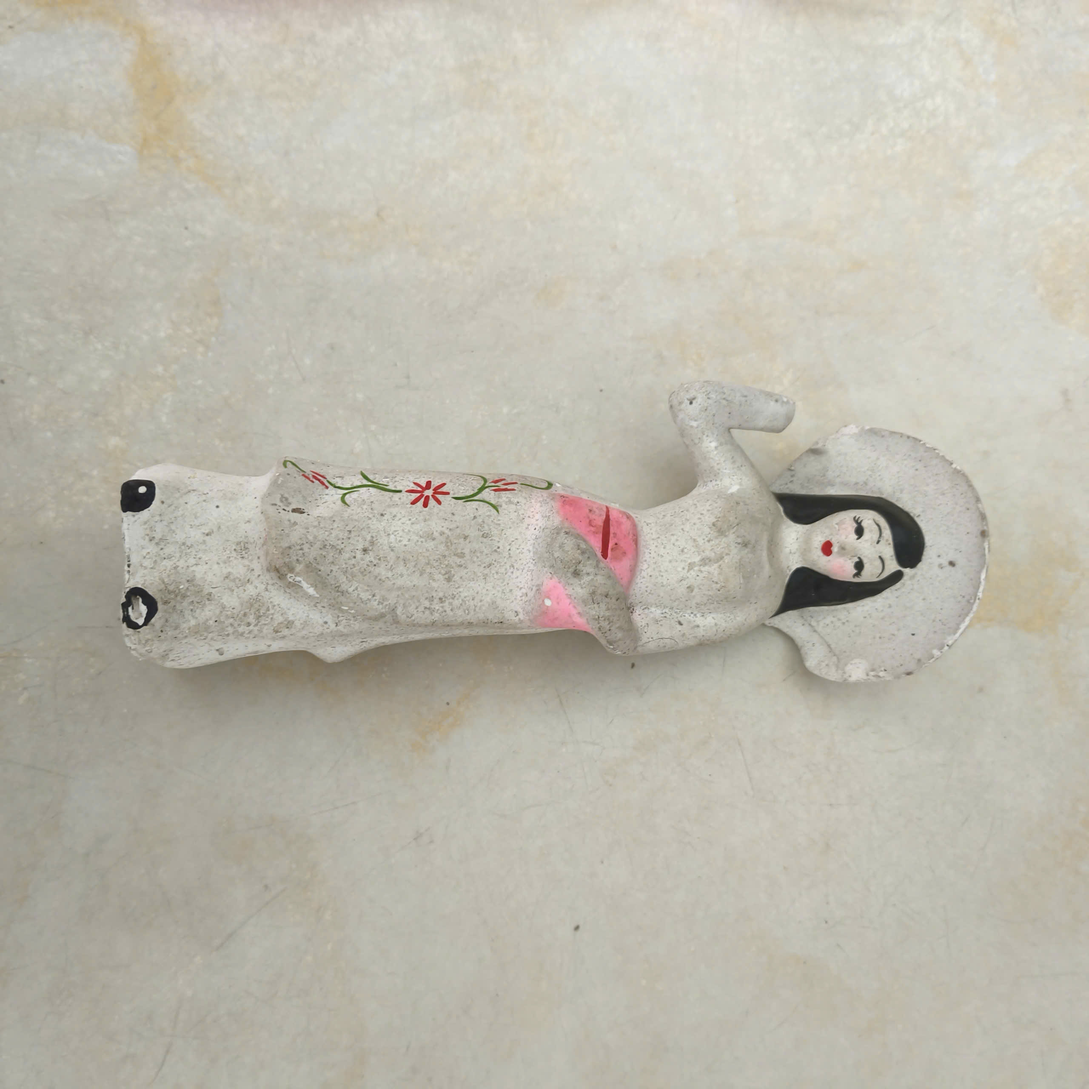
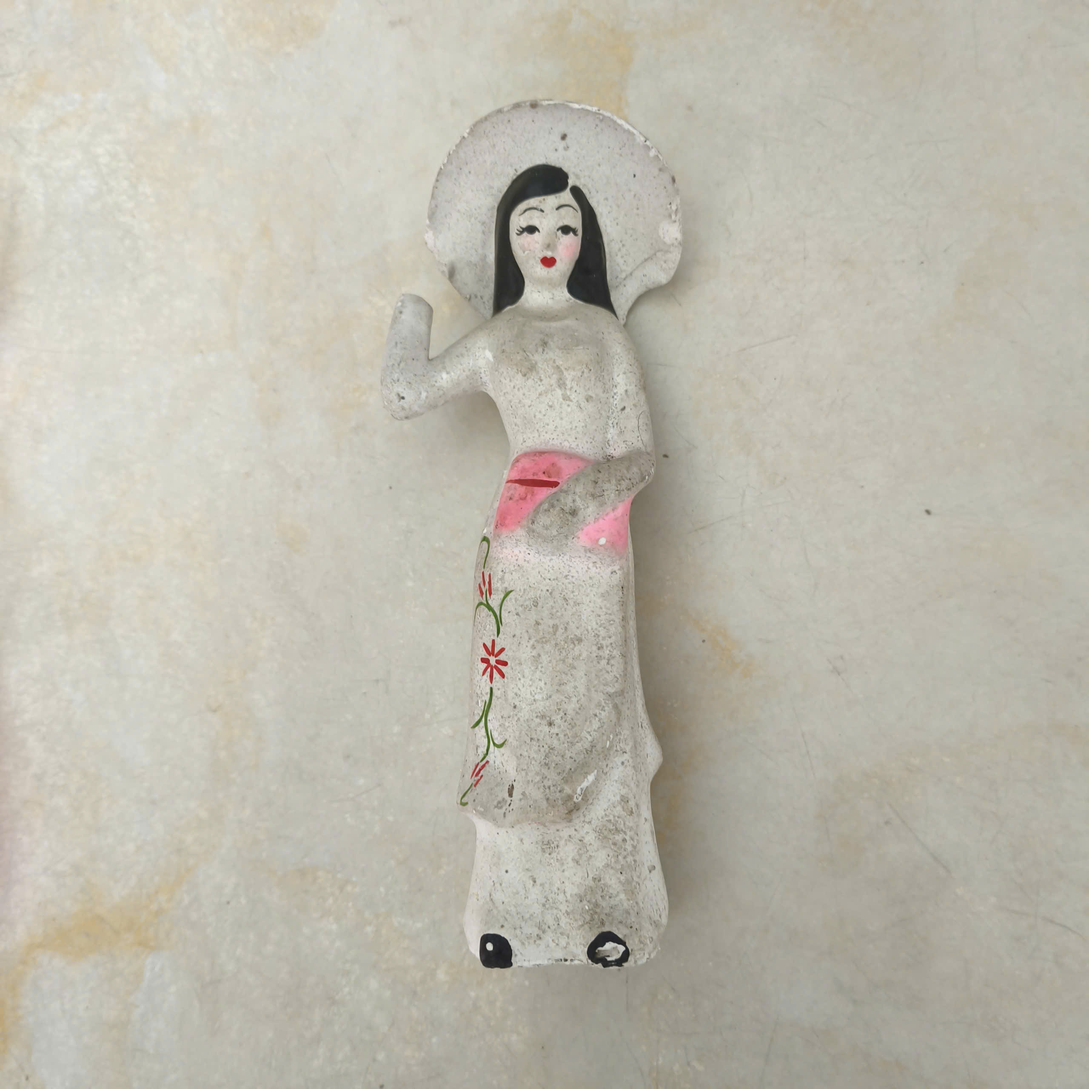
More Photos and rotation fixed

diff --git a/app.js b/app.js
@@ -147,136 +147,150 @@ const LEGACY_ITEMS = [
 const DEFAULT_ITEMS = [
   {
     "id": "tt1", "category": "education", "image": "./photos/tt1.jpg",
-    "nameVi": "Tạp Chí Văn Học và Tuổi Trẻ – Tháng 2/2002", "nameEn": "Literature and Youth Magazine – February 2002",
-    "shortVi": "Số 2 (68) của đặc san Văn học và Tuổi trẻ, xuất bản tháng 2 năm 2002.", "shortEn": "Issue 2 (68) of Literature and Youth, published in February 2002.",
-    "storyVi": "Trang bìa ghi lại một ấn phẩm văn học dành cho tuổi trẻ đầu những năm 2000. Những cuốn đặc san như thế có thể đưa người đọc trở lại không khí đọc sách và học văn của một thời.", "storyEn": "The cover preserves a literary publication for young readers from the early 2000s. Issues like this evoke the reading and literature lessons of an earlier time.",
+    "nameVi": "Trang Văn Xưa, Mùa Học Trò Còn Mãi", "nameEn": "Old Pages, School Days That Never Fade",
+    "shortVi": "Một trang văn mở lối về những giờ đọc say mê dưới mái trường Hoàng Văn Thụ.", "shortEn": "A literary page leads us back to spellbound reading beneath Hoang Van Thu's school roof.",
+    "storyVi": "Số báo năm 2002 đưa ta về những giờ văn, nơi một câu thơ có thể theo học trò suốt con đường tan lớp. Bao thế hệ đã chuyền nhau niềm vui đọc và lời thương mến dành cho mái trường. Từ trang giấy ấy, ta nhớ giấy được kết thành từ những sợi cellulose mong manh.", "storyEn": "This 2002 issue returns us to literature lessons, where a poem could follow students all the way home. Generations shared the joy of reading and affection for their school. Its pages also remind us that paper is woven from delicate cellulose fibres.",
     "stemVi": "Giấy gồm mạng sợi cellulose; ánh sáng, độ ẩm và nhiệt có thể thúc đẩy quá trình lão hóa. Bảo quản nơi khô, tránh ánh sáng mạnh giúp giảm hư hại.", "stemEn": "Paper consists of a network of cellulose fibres; light, humidity and heat can accelerate ageing. Dry storage away from strong light helps reduce damage."
   },
   {
     "id": "tt2", "category": "nature", "image": "./photos/tt2.jpg",
     "nameVi": "Hoa Phượng Đỏ Ép Hình Bướm", "nameEn": "Pressed Royal Poinciana Flower Butterfly",
-    "shortVi": "Hoa phượng đỏ ép khô, được tạo hình bướm trên nền giấy sáng.", "shortEn": "A dried, pressed royal poinciana flower presented as a butterfly on a light backing.",
-    "storyVi": "Hoa phượng đỏ gắn với mùa hè và những ngày chia tay tuổi học trò. Bông hoa được ép khô và tạo hình bướm như một kỷ vật nhỏ lưu giữ ký ức sân trường.", "storyEn": "The red royal poinciana is associated with summer and schoolday farewells in Vietnam. Pressed and presented as a butterfly, the flower becomes a small keepsake of school memories.",
+    "shortVi": "Cánh phượng giữ hộ tiếng ve, lời hẹn và mùa chia tay sân trường.", "shortEn": "A flamboyant petal keeps the cicadas, farewells, and promises of schoolyard summer.",
+    "storyVi": "Mỗi mùa phượng nở, sân trường lại đỏ lên như trang lịch báo hè đã gần. Có người ép một cánh hoa vào trang vở để giữ lại buổi chia tay và lời hẹn ngày gặp lại. Cánh hoa khô vẫn kể chuyện mùa nắng, khi nước dần rời khỏi mô thực vật.", "storyEn": "Whenever the flamboyant trees bloom, the schoolyard turns red with the promise of summer. Someone pressed a petal into a notebook to remember a farewell and the promise to meet again. The dried flower still tells of sunlight, as water slowly leaves its tissues.",
     "stemVi": "Phượng đỏ (Delonix regia) là cây có hoa thuộc họ Đậu. Khi ép và làm khô, nước rời khỏi mô hoa, giúp hạn chế nấm mốc; sắc hoa vẫn có thể phai hoặc chuyển nâu theo thời gian và dưới ánh sáng.", "stemEn": "Royal poinciana (Delonix regia) is a flowering tree in the pea family. Pressing and drying remove water from flower tissues, helping limit mould; the colour can still fade or turn brown over time and with light exposure."
   },
   {
     "id": "tt3", "category": "education", "image": "./photos/tt3.jpg",
-    "nameVi": "Tạp Chí Văn Học và Tuổi Trẻ – Tháng 3/2002", "nameEn": "Literature and Youth Magazine – March 2002",
-    "shortVi": "Số 3 (69), tháng 3 năm 2002, với bìa hình học sinh áo dài trắng.", "shortEn": "Issue 3 (69), March 2002, with students in white áo dài on the cover.",
-    "storyVi": "Hình ảnh học sinh trên bìa gợi đến những giờ học, tình bạn và thói quen đọc của tuổi trẻ. Số báo là một mảnh tư liệu của văn hóa học đường năm 2002.", "storyEn": "The students on the cover evoke classes, friendships and youthful reading habits. The issue is a small record of school culture in 2002.",
+    "nameVi": "Tháng Ba Trên Trang Báo Tuổi Trẻ", "nameEn": "March Days on the Pages of Youth",
+    "shortVi": "Số báo tháng Ba gợi tà áo trắng, giờ văn và tình bạn đầu đời.", "shortEn": "A March issue recalls white ao dai, literature lessons, and friendships just beginning.",
+    "storyVi": "Tháng Ba năm 2002, những trang báo tìm đường vào cặp sách và câu chuyện giờ ra chơi. Áo trắng, bè bạn và niềm háo hức tuổi trẻ gặp nhau trong một miền nhớ chung của nhiều khóa học trò. Màu in được tạo nên khi những chấm mực nhỏ hòa vào mắt người đọc.", "storyEn": "In March 2002, this magazine found its way into schoolbags and recess conversations. White uniforms, friendship, and youthful anticipation meet in a memory shared by generations of students. Printed colours emerge as tiny ink dots blend in the reader's eye.",
     "stemVi": "Trong in màu, các lớp mực cyan, magenta, vàng và đen thường được chồng lên nhau. Các chấm in nhỏ tạo nên hình ảnh và những sắc độ mà mắt cảm nhận.", "stemEn": "Colour printing commonly layers cyan, magenta, yellow and black inks. Small printed dots combine to produce the image and tones perceived by the eye."
   },
   {
     "id": "tt4", "category": "education", "image": "./photos/tt4.jpg",
-    "nameVi": "Tạp Chí Văn Học và Tuổi Trẻ – Tháng 10/2002", "nameEn": "Literature and Youth Magazine – October 2002",
-    "shortVi": "Số 10 (76), tháng 10 năm 2002, với tranh minh họa trên bìa.", "shortEn": "Issue 10 (76), October 2002, with an illustrated cover.",
-    "storyVi": "Một bìa báo khác trong bộ đặc san lưu lại nét minh họa và thiết kế của đầu thập niên 2000. Những trang giấy cũ mở ra cơ hội khám phá cách văn học từng đến với học sinh.", "storyEn": "Another cover in the series preserves the illustration and design of the early 2000s. Its old pages invite us to explore how literature reached students.",
+    "nameVi": "Tháng Mười, Một Mùa Văn Chương", "nameEn": "October, a Season of Stories",
+    "shortVi": "Trang báo tháng Mười nhắc những buổi đọc văn và ước mơ tuổi học trò.", "shortEn": "October's pages recall literature lessons and the dreams of school days.",
+    "storyVi": "Số tháng Mười đưa ta về những chiều tan học, khi câu chuyện trong trang sách còn theo chân về tận ngõ nhà. Qua bao năm, một ấn phẩm nhỏ vẫn nối người đọc hôm nay với những lớp học ngày trước. Mực và giấy tiếp tục đổi thay dưới ánh sáng, không khí và thời gian.", "storyEn": "The October issue recalls afternoons when a story from class followed students all the way home. Years later, a small publication still connects today's readers with classrooms long past. Ink and paper keep changing under light, air, and time.",
     "stemVi": "Mực in và sợi giấy thay đổi theo thời gian do ánh sáng, oxy và độ ẩm. Lưu trữ ổn định, tránh ánh nắng trực tiếp, giúp làm chậm các quá trình này.", "stemEn": "Printing inks and paper fibres change over time through exposure to light, oxygen and moisture. Stable storage away from direct sun slows these processes."
   },
   {
     "id": "tt5", "category": "memory", "image": "./photos/tt5.jpg",
-    "nameVi": "Giấy Viết Thư Hình Mèo và Chó", "nameEn": "Cat-and-Dog Decorative Letter Paper",
-    "shortVi": "Tờ giấy viết thư có viền xanh và hình thú cưng.", "shortEn": "Letter paper with a green border and pet illustrations.",
-    "storyVi": "Tờ giấy trang trí gợi lại thời học trò chọn giấy thật đẹp trước khi viết một lời nhắn. Khoảng trắng ở giữa dành cho những câu chuyện và tình cảm của người viết.", "storyEn": "This decorative sheet recalls choosing special stationery before writing a note. The blank centre leaves room for the writer's stories and feelings.",
+    "nameVi": "Lá Thư Nhỏ Gửi Bạn Bàn Bên", "nameEn": "A Little Letter for the Desk-Mate",
+    "shortVi": "Một tờ thư chờ nét mực tím và lời hỏi thăm người bạn thân thương.", "shortEn": "A letter awaits purple ink and a kind greeting for a cherished friend.",
+    "storyVi": "Có những lời chỉ dám viết lên giấy rồi khẽ đẩy qua mặt bàn gỗ. Một câu hỏi thăm vụng về cũng đủ làm giờ học dài hóa dịu dàng, và tình bạn theo người ta qua nhiều mùa phượng. Giấy giữ lời nhắn bằng mạng sợi cellulose đan vào nhau.", "storyEn": "Some words could only be written down and quietly passed across a wooden desk. A shy greeting made a long lesson gentler, and that friendship lasted through many flamboyant summers. Paper holds the message in a network of interwoven cellulose fibres.",
     "stemVi": "Giấy được tạo từ các sợi cellulose liên kết thành mạng. Thiết kế viền giúp phân chia không gian thị giác giữa hình trang trí và phần dành để viết.", "stemEn": "Paper is made from cellulose fibres bonded into a network. The border visually separates the decoration from the space intended for writing."
   },
   {
     "id": "tt6", "category": "memory", "image": "./photos/tt6.jpg",
-    "nameVi": "Giấy Viết Thư Hoa và Thú Bông", "nameEn": "Floral and Teddy Bear Letter Paper",
-    "shortVi": "Giấy viết thư kẻ dòng, trang trí hoa và hình thú bông.", "shortEn": "Lined writing paper decorated with flowers and teddy bears.",
-    "storyVi": "Những đường kẻ và hình trang trí đầy màu sắc gợi những lá thư viết tay gửi bạn bè. Một tờ giấy nhỏ có thể là nơi lưu giữ những lời hỏi thăm gần gũi.", "storyEn": "Colourful illustrations and ruled lines recall handwritten letters to friends. A small sheet can hold a thoughtful message across time.",
+    "nameVi": "Dòng Kẻ Chở Bao Điều Chưa Nói", "nameEn": "Ruled Lines for Words Unspoken",
+    "shortVi": "Nét chữ học trò gửi thương nhớ qua những dòng kẻ dịu dàng.", "shortEn": "A student's handwriting carries affection along these gentle lines.",
+    "storyVi": "Sau giờ học, từng dòng chữ nhỏ có thể kể chuyện bài kiểm tra, nỗi nhớ hay một niềm vui vừa đến. Lá thư chuyền tay làm chiếc bàn học thành nơi cất giữ những điều khó nói thành lời. Những đường kẻ giúp chữ viết thẳng hàng, còn sắc màu đến từ ánh sáng phản chiếu trên giấy.", "storyEn": "After class, a few handwritten lines could hold exam worries, longing, or a fresh happiness. A passed note turned the desk into a keeper of feelings too shy to speak. Ruled lines guide the writing, while reflected light gives the printed colours their life.",
     "stemVi": "Các đường kẻ song song tạo chuẩn căn hàng cho chữ viết. Hoa văn nhiều màu được tạo bằng mực in; sắc màu nhìn thấy phụ thuộc vào ánh sáng phản xạ từ bề mặt giấy.", "stemEn": "Parallel ruled lines provide a guide for handwriting. Printed colours are perceived through the light reflected from the paper's surface."
   },
   {
     "id": "tt7", "category": "education", "image": "./photos/tt7.jpg",
-    "nameVi": "Thiệp Chúc Mừng Ngày Nhà Giáo Việt Nam", "nameEn": "Vietnamese Teachers' Day Greeting Card",
-    "shortVi": "Thiệp gấp có hình thầy cô, học sinh và lời chúc Ngày Nhà giáo.", "shortEn": "A folded card featuring teachers, students and a Teachers' Day greeting.",
-    "storyVi": "Tấm thiệp gợi dịp học sinh bày tỏ lòng biết ơn với thầy cô nhân Ngày Nhà giáo Việt Nam. Nếp gấp và phần bên trong chừa chỗ cho những lời nhắn riêng.", "storyEn": "The card evokes the occasion when students express gratitude to teachers on Vietnamese Teachers' Day. Its folded form leaves space inside for a personal note.",
+    "nameVi": "Lời Tri Ân Gửi Người Lái Đò", "nameEn": "A Note of Thanks to Our Teachers",
+    "shortVi": "Một lời biết ơn nhỏ dành cho những người thắp sáng bao mùa học.", "shortEn": "A small expression of gratitude to those who illuminate generations of learning.",
+    "storyVi": "Ngày Nhà giáo, học trò gom bao điều muốn nói vào một lời chúc còn ngập ngừng. Thầy cô đón nhận tấm lòng ấy rồi lại lặng lẽ trở về với bài giảng, như đã qua bao thế hệ dưới mái trường này. Nếp gấp biến tấm bìa phẳng thành nơi cất giữ lời tri ân.", "storyEn": "On Teachers' Day, students gather their feelings into a greeting, sometimes still shyly. Their teachers receive it and quietly return to their lessons, as generations have done beneath this school's roof. A crease turns flat card into a keepsake for gratitude.",
     "stemVi": "Nếp gấp biến một tấm bìa phẳng thành cấu trúc mở–đóng. Sợi giấy bị biến dạng tại đường gấp, vì vậy tạo rãnh trước khi gấp có thể giúp hạn chế rách.", "stemEn": "A fold turns a flat piece of card into an opening structure. Paper fibres deform at the crease, so scoring before folding can help prevent tearing."
   },
   {
     "id": "tt8", "category": "memory", "image": "./photos/tt8.jpg",
-    "nameVi": "Giấy Viết Thư Họa Tiết Hoa và Ngôi Sao", "nameEn": "Flower and Star Letter Paper",
-    "shortVi": "Tờ giấy kẻ dòng màu tím nhạt, có hoa và họa tiết ngôi sao.", "shortEn": "Pale purple ruled letter paper with flowers and stars.",
-    "storyVi": "Một mẫu giấy viết thư khác lưu lại gu trang trí đầy màu sắc của thời thư tay. Những dòng kẻ từng chờ đợi một câu chuyện được gửi tới người nhận.", "storyEn": "Another letter-paper design preserves the colourful style of handwritten correspondence. Its lines waited for a story to be sent to someone.",
+    "nameVi": "Ngôi Sao Nhỏ Trên Trang Thư Tím", "nameEn": "A Little Star on a Violet Letter",
+    "shortVi": "Ngôi sao và cánh hoa cùng đợi một lá thư tìm đến người thương.", "shortEn": "A star and flower wait together for a letter to find someone dear.",
+    "storyVi": "Một trang thư đẹp khiến lời nhắn bình thường bỗng trở nên đáng nâng niu. Có lẽ ai đó từng viết vội trước giờ trống, gửi theo một bí mật của tuổi học trò. Mực hấp thụ và phản xạ ánh sáng để sắc màu hiện lên, còn dòng kẻ giữ lời ngay ngắn.", "storyEn": "A lovely sheet could make an ordinary message feel worth treasuring. Perhaps someone hurriedly wrote before the bell, entrusting it with a schoolday secret. Ink absorbs and reflects light to create colour, while the lines keep each word in place.",
     "stemVi": "Khi ánh sáng chiếu lên giấy, mực hấp thụ một phần bước sóng và phản xạ phần còn lại, tạo nên màu sắc quan sát được. Các đường kẻ giúp giữ chữ viết ngay hàng.", "stemEn": "When light falls on the paper, inks absorb some wavelengths and reflect others, producing the colours we see. The lines help keep handwriting aligned."
   },
   {
     "id": "tt9", "category": "design", "image": "./photos/tt9.jpg",
-    "nameVi": "Giá Treo Đồ Hình Cành Cây Màu Xanh", "nameEn": "Green Branch-Shaped Desk Stand",
-    "shortVi": "Giá treo nhỏ có các nhánh và chân đế loe.", "shortEn": "A small branch-shaped stand with a flared base.",
-    "storyVi": "Hình cành cây đưa một nét tự nhiên vào góc bàn học. Các nhánh có thể dùng để treo những vật nhỏ và giúp sắp xếp không gian gọn gàng.", "storyEn": "The branch form brings a touch of nature to a desk. Its branches can hold small objects and help keep a space organised.",
+    "nameVi": "Nhành Xanh Bên Góc Bàn Học", "nameEn": "A Green Bough Beside the School Desk",
+    "shortVi": "Nhành xanh gợi bóng cây sân trường giữa bao mùa học trò qua lại.", "shortEn": "A green bough recalls the schoolyard shade through passing generations of students.",
+    "storyVi": "Giữa trang vở và chồng sách, một nhành xanh nhắc học trò ngẩng lên nhớ bóng cây ngoài sân. Nơi góc bàn thân thuộc, những mùa phượng nối tiếp nhau mà chuyện trò chẳng dứt. Giá đứng vững khi trọng tâm còn nằm trên chân đế, một bài học nhỏ về cân bằng.", "storyEn": "Among notebooks and textbooks, a green bough reminds students to look up and remember the courtyard trees. At the familiar desk, flamboyant seasons pass while conversations carry on. The stand stays upright when its centre of mass remains over its base: a small lesson in balance.",
     "stemVi": "Chân đế rộng giúp giá ổn định hơn khi trọng tâm nằm trên vùng tiếp xúc. Vật treo lệch tạo mô-men lực và có thể khiến giá bị lật nếu quá nặng.", "stemEn": "A wider base improves stability when the centre of mass remains above the support area. An uneven hanging load creates torque and can tip the stand if too heavy."
   },
   {
     "id": "tt10", "category": "art", "image": "./photos/tt10.jpg",
-    "nameVi": "Tượng Trang Trí Người Mặc Áo Dài và Nón Lá", "nameEn": "Decorative Figure in Áo Dài and Conical Hat",
-    "shortVi": "Tượng nhỏ mô tả một người mặc áo dài trắng và đội nón lá.", "shortEn": "A small figure depicting a person in a white áo dài and conical hat.",
-    "storyVi": "Tượng tái hiện trang phục và hình ảnh quen thuộc trong văn hóa Việt Nam. Những nét vẽ nhỏ trên bề mặt tạo nên vẻ riêng cho vật trang trí.", "storyEn": "The figure depicts familiar elements of Vietnamese dress and culture. Small painted details give this decorative object its individual character.",
+    "nameVi": "Dáng Áo Dài Trong Miền Nhớ", "nameEn": "The Ao Dai in Our Schoolday Memories",
+    "shortVi": "Dáng áo dài nhắc sân trường thân thuộc và những người cô tận tụy.", "shortEn": "The ao dai recalls a beloved schoolyard and the devotion of its teachers.",
+    "storyVi": "Dáng áo dài đưa ta về buổi chào cờ sớm, khi lời thầy cô mở đầu một ngày mới. Bao người đã đi qua mái trường, mang theo sự tận tụy của những người từng dìu dắt mình. Sắc màu trên hình tượng được tạo nên khi sắc tố hấp thụ và phản xạ ánh sáng.", "storyEn": "The ao dai brings back early assemblies, when a teacher's words began the day. Generations have passed through this school carrying the care of those who guided them. Pigments create the figure's colours by absorbing and reflecting light.",
     "stemVi": "Sắc tố trong lớp sơn hấp thụ và phản xạ ánh sáng để tạo màu. Bề mặt, độ dày và điều kiện lưu trữ đều ảnh hưởng đến độ bền của lớp trang trí.", "stemEn": "Pigments in paint absorb and reflect light to produce colour. The surface, layer thickness and storage conditions all affect the durability of the decoration."
   },
   {
     "id": "tt11", "category": "technology", "image": "./photos/tt11.jpg",
-    "nameVi": "Băng Cát-Xét Maxell UR 90", "nameEn": "Maxell UR 90 Audio Cassette",
-    "shortVi": "Băng cát-xét Maxell UR 90 với hai cuộn băng trong vỏ nhựa.", "shortEn": "A Maxell UR 90 cassette with two reels inside a plastic shell.",
-    "storyVi": "Cuộn băng gợi lại cách nghe và ghi âm trước thời phát nhạc trực tuyến: lắp băng, tua tới bài hát và lắng nghe. Nhãn viết tay cũng có thể giúp nhận diện nội dung từng được lưu trên băng.", "storyEn": "The cassette recalls listening and recording before streaming: inserting a tape, winding to a track and pressing play. A handwritten label could help identify what was recorded.",
+    "nameVi": "Giai Điệu Cũ Trên Cuộn Băng", "nameEn": "Old Melodies on a Cassette",
+    "shortVi": "Một giai điệu giờ ra chơi quay về theo tiếng băng từ thân quen.", "shortEn": "A familiar tape brings back the melodies that once filled recess.",
+    "storyVi": "Ngày trước, một bài hát được tua đi tua lại thành nhạc nền cho cả tuổi học trò. Giai điệu len qua giờ ra chơi, theo bạn bè trên đường về và ở lại trong ký ức nhiều năm. Hạt từ trên băng lưu âm thanh bằng những biến đổi từ hóa rất nhỏ.", "storyEn": "Once, a favourite song was rewound until it became the soundtrack of school days. Its melody slipped into recess, accompanied friends on the way home, and stayed for years. Tiny changes in magnetisation let particles on the tape preserve sound.",
     "stemVi": "Băng từ chứa các hạt vật liệu từ trên lớp phủ. Đầu ghi thay đổi sự từ hóa theo tín hiệu âm thanh; khi phát, đầu đọc chuyển biến thiên từ trường thành tín hiệu điện.", "stemEn": "Magnetic tape has magnetic particles in its coating. A recording head changes their magnetisation with the audio signal; during playback, a head converts changing magnetic flux into an electrical signal."
   },
   {
     "id": "tt12", "category": "memory", "image": "./photos/tt12.jpg",
-    "nameVi": "Ống Đựng Trang Trí Chữ “Love”", "nameEn": "Decorative “Love” Container",
-    "shortVi": "Ống đựng hình trụ có hình đôi bạn và chữ Love trên trái tim.", "shortEn": "A cylindrical container decorated with two figures and a heart reading Love.",
-    "storyVi": "Ống đựng nhỏ với hình đôi bạn gợi một món quà trang trí hoặc vật dụng để bàn. Các chi tiết nổi và chữ trên trái tim tạo điểm nhấn cho kỷ vật.", "storyEn": "The small container, decorated with a pair of figures, suggests a gift or desk accessory. Raised details and lettering on the heart give it a distinctive character.",
+    "nameVi": "Món Quà Nhỏ, Tình Bạn Dài Lâu", "nameEn": "A Small Gift, a Friendship for Years",
+    "shortVi": "Kỷ vật nhỏ nhắc những tình bạn lớn lên cùng năm tháng dưới mái trường.", "shortEn": "A keepsake recalls friendships that grew through the years beneath the school roof.",
+    "storyVi": "Có món quà chẳng cần đắt giá, chỉ cần nhắc ta nhớ người đã ngồi bên cạnh mình. Tình bạn tuổi học trò lớn lên từ những lần sẻ chia, rồi theo mỗi người qua cổng trường. Dáng trụ rỗng tạo chỗ chứa, còn những chi tiết nổi đổi bóng theo ánh sáng.", "storyEn": "Some gifts need no price tag; they only need to recall the friend who sat beside us. Schoolday friendships grew through small acts of sharing and followed each person beyond the school gate. A hollow cylinder holds keepsakes, while raised details shift their shadows with the light.",
     "stemVi": "Hình trụ bao quanh một khoảng rỗng để chứa đồ. Các chi tiết nổi tạo bóng khác nhau theo hướng chiếu sáng, giúp mắt nhận biết hình dạng bề mặt.", "stemEn": "A cylindrical wall encloses a hollow space for holding objects. Raised details cast different shadows as lighting changes, helping the eye perceive surface shape."
   },
   {
     "id": "tt13", "category": "education", "image": "./photos/tt13.jpg",
-    "nameVi": "Bút Kim Loại Trong Hộp Trưng Bày", "nameEn": "Metal Pen in a Display Case",
-    "shortVi": "Một cây bút màu kim loại được đặt trong hộp có nắp trong.", "shortEn": "A metallic-coloured pen displayed in a transparent-lidded case.",
-    "storyVi": "Cây bút được giữ trong hộp, gợi những món quà lưu niệm và công việc viết lách. Hộp giúp người xem nhìn thấy hình dáng cây bút mà không cần trực tiếp cầm vào.", "storyEn": "Kept in its case, the pen recalls commemorative gifts and the work of writing. The case lets visitors see its shape without handling it directly.",
+    "nameVi": "Cây Bút Gửi Lại Bao Trang Vở", "nameEn": "A Pen That Filled So Many Notebooks",
+    "shortVi": "Ngòi bút nhỏ nối bài giảng, trang vở và những ước mơ đầu đời.", "shortEn": "A pen joins lessons, notebooks, and the first dreams of generations.",
+    "storyVi": "Từ nét chữ đầu tiên đến lời chúc cuối năm, cây bút đã chứng kiến học trò trưởng thành từng trang. Có thầy cô kiên nhẫn sửa từng con chữ, gửi theo đó niềm tin vào một ngày mai rộng mở. Vỏ bút cho điểm cầm vững vàng, còn hình dáng được gìn giữ để tiếp tục câu chuyện.", "storyEn": "From a first careful letter to a final-year greeting, this pen witnessed students grow page by page. Teachers patiently shaped each word and sent along their faith in brighter futures. Its body offers a steady grip, while its preserved form carries the story onward.",
     "stemVi": "Vỏ bút tạo kết cấu bảo vệ và điểm cầm. Nắp trong cho ánh sáng truyền qua, đồng thời giúp hạn chế bụi tiếp xúc trực tiếp với vật bên trong.", "stemEn": "The pen body provides a protective structure and a grip. The transparent lid transmits light while helping limit direct dust exposure to the object inside."
   },
   {
     "id": "tt14", "category": "heritage", "image": "./photos/tt14.jpg",
-    "nameVi": "Đĩa Kỷ Niệm 50 Năm Thành Lập Trường (1966 – 2016)", "nameEn": "School 50th Anniversary Commemorative Plate (1966–2016)",
-    "shortVi": "Đĩa kỷ niệm có hình ngôi trường và dòng chữ kỷ niệm 50 năm.", "shortEn": "A commemorative plate showing the school and its 50th-anniversary dates.",
-    "storyVi": "Dòng chữ trên đĩa ghi dấu 50 năm thành lập trường từ 1966 đến 2016. Hình ảnh ngôi trường trên hiện vật đưa người xem trở về một cột mốc trong hành trình của nhiều thế hệ.", "storyEn": "The inscription marks the school's 50th anniversary from 1966 to 2016. Its image of the school takes visitors back to a milestone shared by generations.",
+    "nameVi": "Nửa Thế Kỷ Chung Một Mái Trường", "nameEn": "Half a Century Beneath One School Roof",
+    "shortVi": "Dấu mốc 1966–2016 tri ân bao thế hệ dựng xây Hoàng Văn Thụ.", "shortEn": "The 1966–2016 milestone honours generations who built Hoang Van Thu.",
+    "storyVi": "Từ năm 1966 đến 2016, bao lớp học trò đã gọi nơi đây là mái nhà thứ hai. Mỗi người góp một mùa thanh xuân vào hành trình chung, để hôm nay trường bước sang năm thứ sáu mươi với lòng biết ơn. Đĩa gốm được tạo hình từ khoáng chất rồi nung nóng để bền chắc qua thời gian.", "storyEn": "From 1966 to 2016, generations of students called this place a second home. Each gave a season of youth to a shared journey, and today the school enters its sixtieth year with gratitude. The ceramic plate is shaped from minerals and fired to endure.",
     "stemVi": "Đồ gốm sứ được tạo hình từ nguyên liệu khoáng và nung ở nhiệt độ cao. Lớp men thủy tinh trên bề mặt có thể giúp giảm độ thấm và bảo vệ trang trí.", "stemEn": "Ceramics are shaped from mineral materials and fired at high temperature. A glassy glaze can reduce surface porosity and protect decoration."
   },
   {
     "id": "tt15", "category": "art", "image": "./photos/tt15.jpg",
-    "nameVi": "Vòng Hoa Trang Trí Tím Trắng", "nameEn": "Purple and White Decorative Flower Wreath",
-    "shortVi": "Vòng hoa nhỏ với các bông tím, trắng và dây ruy băng.", "shortEn": "A small wreath of purple and white flowers with ribbon ties.",
-    "storyVi": "Các bông hoa được xếp quanh một vòng, kết hợp dây ruy băng mềm. Vật trang trí gợi không khí của những buổi chụp ảnh và dịp gặp gỡ.", "storyEn": "Flowers are arranged around a ring and paired with soft ribbons. The decoration evokes photographs and special gatherings.",
+    "nameVi": "Vòng Hoa Cho Ngày Hội Ngộ", "nameEn": "A Wreath for the Homecoming",
+    "shortVi": "Sắc hoa tím trắng đón những cuộc gặp lại sau bao mùa xa cách.", "shortEn": "Purple and white flowers welcome friends reuniting after many years apart.",
+    "storyVi": "Ngày hội trường, những người bạn cũ gặp nhau giữa tiếng cười và bao câu chuyện chưa kể. Vòng hoa như lời chào dịu dàng, gom sắc màu của nhiều thế hệ từng chung một sân trường. Khung vòng giữ các phần trang trí thành đường cong, tạo nên một nhịp điệu hài hòa.", "storyEn": "At a school reunion, old friends meet again among laughter and untold stories. The wreath offers a gentle welcome, gathering the colours of generations who shared one schoolyard. Its circular frame holds the decorations along a curve, creating a quiet visual rhythm.",
     "stemVi": "Khung vòng giữ các phần trang trí theo một đường cong. Màu tím và trắng tạo tương phản thị giác, còn dây buộc giúp điều chỉnh cách cố định vòng.", "stemEn": "The ring supports the decorations along a curve. Purple and white provide visual contrast, while the ribbons allow the wreath to be tied in place."
   },
   {
     "id": "tt16", "category": "art", "image": "./photos/tt16.jpg",
-    "nameVi": "Quạt Xếp Tranh Phong Cảnh", "nameEn": "Landscape Folding Fan",
-    "shortVi": "Quạt xếp có nan màu gỗ và tranh phong cảnh nhiều màu.", "shortEn": "A folding fan with wood-coloured ribs and a colourful landscape.",
-    "storyVi": "Bức tranh trải rộng khi quạt mở và thu lại thành một dải nhỏ khi gấp. Quạt vừa là vật dụng quen thuộc vừa mang một hình ảnh phong cảnh trang trí.", "storyEn": "The landscape spreads out when the fan opens and folds into a narrow bundle when closed. The fan is both a familiar tool and a decorative image.",
+    "nameVi": "Tiếng Quạt Ru Trưa Hè Sân Trường", "nameEn": "A Fan's Whisper Through Schoolyard Summers",
+    "shortVi": "Làn gió nhẹ đưa ta về những trưa hè yên ả bên trang sách.", "shortEn": "A gentle breeze returns us to quiet summer noons beside our books.",
+    "storyVi": "Giữa trưa hè oi ả, tiếng quạt khẽ khàng hòa cùng ve ngân ngoài hiên lớp. Một làn gió mỏng từng giúp học trò nấn ná bên trang sách thêm đôi phút. Những nan quạt xoay quanh một chốt chung, khẽ đẩy không khí qua làn da.", "storyEn": "On a sweltering summer noon, a fan's whisper joined the cicadas beyond the classroom. Its small breeze helped students linger over their books a little longer. The ribs turn around a shared pivot, moving air gently across the skin.",
     "stemVi": "Các nan quạt quay quanh một chốt chung, tạo thành hình gần một hình quạt tròn. Khi phe phẩy, quạt đẩy không khí qua da và tăng trao đổi nhiệt đối lưu.", "stemEn": "The ribs pivot around a common pin to form a sector-like shape. Waving the fan moves air across the skin and increases convective heat transfer."
   },
   {
     "id": "tt17", "category": "technology", "image": "./photos/tt17.jpg",
-    "nameVi": "Mô Hình Xe Máy Màu Đen", "nameEn": "Black Motorcycle Model",
-    "shortVi": "Mô hình xe máy có bánh xe, yên và các chi tiết màu kim loại.", "shortEn": "A motorcycle model with wheels, seats and metallic details.",
-    "storyVi": "Mô hình thu nhỏ một chiếc xe máy kiểu cổ điển, từ tay lái đến bánh và động cơ. Việc quan sát các bộ phận giúp hình dung cấu tạo của phương tiện quen thuộc.", "storyEn": "The miniature reproduces a classic-style motorcycle from its handlebars to its wheels and engine. Examining its parts helps us understand a familiar vehicle.",
+    "nameVi": "Chuyến Xe Chở Bao Mùa Tựu Trường", "nameEn": "A Ride Through Many First Days of School",
+    "shortVi": "Tiếng xe sớm mai gợi những chuyến đưa đón qua sương Lục Yên.", "shortEn": "An early engine recalls rides through the misty mornings of Luc Yen.",
+    "storyVi": "Thuở sớm mai, tiếng xe nổ máy đưa học trò qua con đường còn phủ sương Lục Yên. Có người chở con đến lớp, có người đi qua bao mùa tựu trường rồi lại đưa con mình trở về. Bánh xe quay quanh trục, còn động cơ truyền lực để chuyến đi tiếp tục.", "storyEn": "At dawn, an engine carried students along roads veiled in Luc Yen mist. Some brought children to class; others crossed many first days of school before bringing their own children back. Wheels turn on axles, while an engine sends power onward to keep the journey moving.",
     "stemVi": "Bánh xe quay quanh trục và tiếp xúc với mặt đường. Trên xe thực, hệ truyền động đưa mô-men từ động cơ đến bánh chủ động; mô hình thể hiện hình dáng một số bộ phận ấy.", "stemEn": "Wheels rotate around axles and contact the road. On a real motorcycle, the drivetrain transfers torque from the engine to the driven wheel; the model depicts some of those parts."
   },
   {
     "id": "tt18", "category": "technology", "image": "./photos/tt18.jpg",
-    "nameVi": "Mô Hình Xe Đạp Màu Đen", "nameEn": "Black Bicycle Model",
-    "shortVi": "Xe đạp thu nhỏ với giỏ, yên và hai bánh có nan hoa.", "shortEn": "A miniature bicycle with a basket, saddle and spoked wheels.",
-    "storyVi": "Chiếc xe đạp mô hình gợi những con đường đến trường và những chuyến đi gần gũi. Kích thước thu nhỏ cho phép quan sát khung, bàn đạp và bánh xe cùng lúc.", "storyEn": "The miniature bicycle recalls journeys to school and familiar local rides. Its small scale lets visitors view the frame, pedals and wheels together.",
+    "nameVi": "Chiếc Xe Đạp Và Con Đường Đến Lớp", "nameEn": "The Bicycle and the Road to School",
+    "shortVi": "Bình minh Lục Yên, chiếc xe đạp và con đường thân quen tới trường.", "shortEn": "Luc Yen dawn, a bicycle, and the familiar road that leads to school.",
+    "storyVi": "Sáng sớm, chiếc xe đạp lăn qua màn sương Lục Yên, chở theo sách vở và một ngày mới. Bao thế hệ đã đạp xe đến lớp, nghe tiếng chuông đầu giờ giữa tiếng chim và gió núi. Nan hoa căng giữ vành bánh, biến sức đạp thành chuyển động trên đường.", "storyEn": "At dawn, a bicycle rolled through Luc Yen mist, carrying books and the promise of a new day. Generations pedalled to class, hearing the first bell among birdsong and mountain air. Tensioned spokes steady the rim, turning each pedal stroke into motion along the road.",
     "stemVi": "Nan hoa chịu lực kéo và giúp vành bánh giữ hình dạng. Trên xe đạp vận hành bằng xích, tỉ số số răng của hai đĩa xích liên quan đến tỉ số tốc độ quay của chúng.", "stemEn": "Spokes carry tension and help the wheel rim retain its shape. On a chain-driven bicycle, the sprockets' tooth counts determine their rotational speed ratio."
   },
   {
     "id": "tt19", "category": "nature", "image": "./photos/tt19.jpg",
-    "nameVi": "Hộp Hoa Khô Trang Trí", "nameEn": "Dried Botanical Decoration Box",
-    "shortVi": "Hộp trong chứa cánh hoa và các phần thực vật đã làm khô.", "shortEn": "A clear box containing dried petals and other botanical material.",
-    "storyVi": "Những phần hoa và lá khô được giữ trong một hộp nhỏ, lưu lại màu sắc và hình dáng sau khi tươi. Cách sắp đặt gợi một món trang trí lấy cảm hứng từ thiên nhiên.", "storyEn": "Dried flowers and leaves are kept in a small box, preserving shapes and colours after drying. The arrangement suggests a decoration inspired by nature.",
+    "nameVi": "Mùa Hoa Được Giữ Lại", "nameEn": "A Season of Flowers, Kept in Memory",
+    "shortVi": "Những cánh hoa lưu hương mùa cũ và nhắc một ngày sân trường rộn nắng.", "shortEn": "Petals keep an old season close and recall a sunlit day at school.",
+    "storyVi": "Có người muốn giữ lại một mùa vui nên nâng niu những cánh hoa sau ngày hội trường. Thời gian lặng lẽ đi qua, nhưng sắc hoa vẫn gợi buổi nắng, tiếng cười và bè bạn năm nào. Khi được làm khô, mô thực vật mất nước nên nhiều quá trình phân hủy chậm lại.", "storyEn": "Someone wished to keep a happy season close and treasured its flowers after a school celebration. Time moved quietly on, yet the petals still recall sunshine, laughter, and friends from years ago. As plant tissues dry, they lose water and many processes of decay slow down.",
     "stemVi": "Làm khô loại bớt nước khỏi mô thực vật, làm chậm nhiều quá trình phân hủy. Ánh sáng và độ ẩm vẫn có thể làm vật liệu đổi màu hoặc hư hại theo thời gian.", "stemEn": "Drying removes water from plant tissues and slows many processes of decay. Light and moisture can still cause fading or damage over time."
+  },
+  {
+    "id": "tt20", "category": "technology", "image": "./photos/tt20.jpg",
+    "nameVi": "Tiếng Radio Gọi Về Một Thời Sân Trường", "nameEn": "The Radio Calling Us Back to School Days",
+    "shortVi": "Tiếng radio nối buổi sớm, giờ học và những giai điệu bên mái trường.", "shortEn": "A radio joins early mornings, lessons, and melodies beneath the school roof.",
+    "storyVi": "Trong nhiều mái nhà, người lớn dò từng làn sóng để đón bản tin và giai điệu đầu ngày. Tiếng radio theo buổi sớm đến tận cổng trường, nơi bao thế hệ bắt đầu hành trình học tập của mình. Bên trong máy, mạch thu chọn tần số rồi biến tín hiệu phát thanh thành âm thanh.", "storyEn": "Across many homes, someone once tuned the radio for morning news and music. Its sound travelled toward the school gate, where generations began their daily learning. Inside, a receiver selects a frequency and turns broadcast signals into sound.",
+    "stemVi": "Mạch cộng hưởng chọn tần số của đài; mạch giải điều chế khôi phục tín hiệu âm thanh, rồi bộ khuếch đại đưa tín hiệu đến loa. Loa biến dao động điện thành dao động không khí mà ta nghe được.", "stemEn": "A resonant circuit selects a station's frequency; a demodulator recovers the audio signal, which an amplifier sends to the speaker. The speaker turns electrical changes into vibrations in the air."
+  },
+  {
+    "id": "tt21", "category": "memory", "image": "./photos/tt21.jpg",
+    "nameVi": "Phong Thư Vượt Qua Bao Dặm Xa", "nameEn": "An Envelope Across a Long Distance",
+    "shortVi": "Dấu bưu chính lưu ngày tháng, nối lời nhắn học trò qua những miền xa.", "shortEn": "A postmark keeps its date, carrying a student's message across distance.",
+    "storyVi": "Trước khi tin nhắn đến trong chớp mắt, một lời hỏi thăm có thể đi qua nhiều bàn tay và chặng đường. Dấu bưu chính năm 2008 nhắc ta về nhịp chờ thư hồi âm, về những kết nối bền bỉ giữa người đi xa và mái trường. Mực dấu thấm vào giấy, còn con dấu giúp bưu điện ghi nhận ngày gửi.", "storyEn": "Before messages arrived in an instant, a greeting travelled through many hands and over many miles. Its 2008 postmark recalls the patient wait for a reply and the lasting ties between those far away and their school. Ink settles into paper fibres, while the postmark records when the letter entered the mail.",
+    "stemVi": "Giấy thấm một phần mực vào mạng sợi cellulose, còn dấu bưu chính giúp ghi nhận thời điểm xử lý thư. Tem xác nhận cước phí và được bưu điện hủy dấu để tránh sử dụng lại.", "stemEn": "Paper absorbs some ink into its cellulose-fibre network, while a postmark records when mail is processed. The stamp pays postage and is cancelled to prevent reuse."
   }
 ];
 

diff --git a/styles.css b/styles.css
@@ -444,14 +444,13 @@ h1, h2, p { margin-top: 0; }
   *, *::before, *::after { scroll-behavior: auto !important; animation-duration: .01ms !important; animation-iteration-count: 1 !important; transition-duration: .01ms !important; }
 }
 @media print {
-  @page { size: A4 portrait; margin: 10mm; }
+  @page { size: A4 portrait; margin: 8mm; }
   body { background: white; -webkit-print-color-adjust: exact; print-color-adjust: exact; }
   body > *:not(.print-sheet) { display: none !important; }
   .print-sheet { display: block !important; }
-  .print-page { display: grid; grid-template-columns: 1fr 1fr; align-content: start; gap: 7mm; break-after: page; }
-  .print-page:last-child { break-after: auto; }
-  .print-card { position: relative; display: grid; grid-template-columns: 1fr 28mm; min-height: 120mm; align-items: start; gap: 3mm; padding: 6mm; break-inside: avoid; border: 1px solid #7a1c1c; outline: 1px solid #7a1c1c; outline-offset: -3mm; color: #1e1b18; }
-  .print-card::after { position: absolute; top: 50%; right: 0; left: 0; border-top: 1px dashed #81745e; content: ""; }
+  .print-page { display: grid; grid-template-columns: repeat(2, minmax(0, 1fr)); grid-template-rows: repeat(2, 134mm); align-content: start; gap: 7mm; page-break-after: always; break-after: page; }
+  .print-page:last-child { page-break-after: auto; break-after: auto; }
+  .print-card { position: relative; display: grid; grid-template-columns: 1fr 28mm; height: 134mm; box-sizing: border-box; align-items: start; gap: 3mm; padding: 6mm; break-inside: avoid !important; page-break-inside: avoid !important; border: 1px solid #7a1c1c; outline: 1px solid #7a1c1c; outline-offset: -3mm; color: #1e1b18; }
   .print-card__copy { align-self: start; }
   .print-card__copy h2 { margin: 0; color: #7a1c1c; font-family: "Be Vietnam Pro", sans-serif; font-size: 11pt; font-weight: 800; line-height: 1.3; }
   .print-card__copy h3 { margin: 1mm 0 3mm; color: #51483d; font-family: "Montserrat", sans-serif; font-size: 8pt; font-style: italic; font-weight: 500; line-height: 1.35; }
